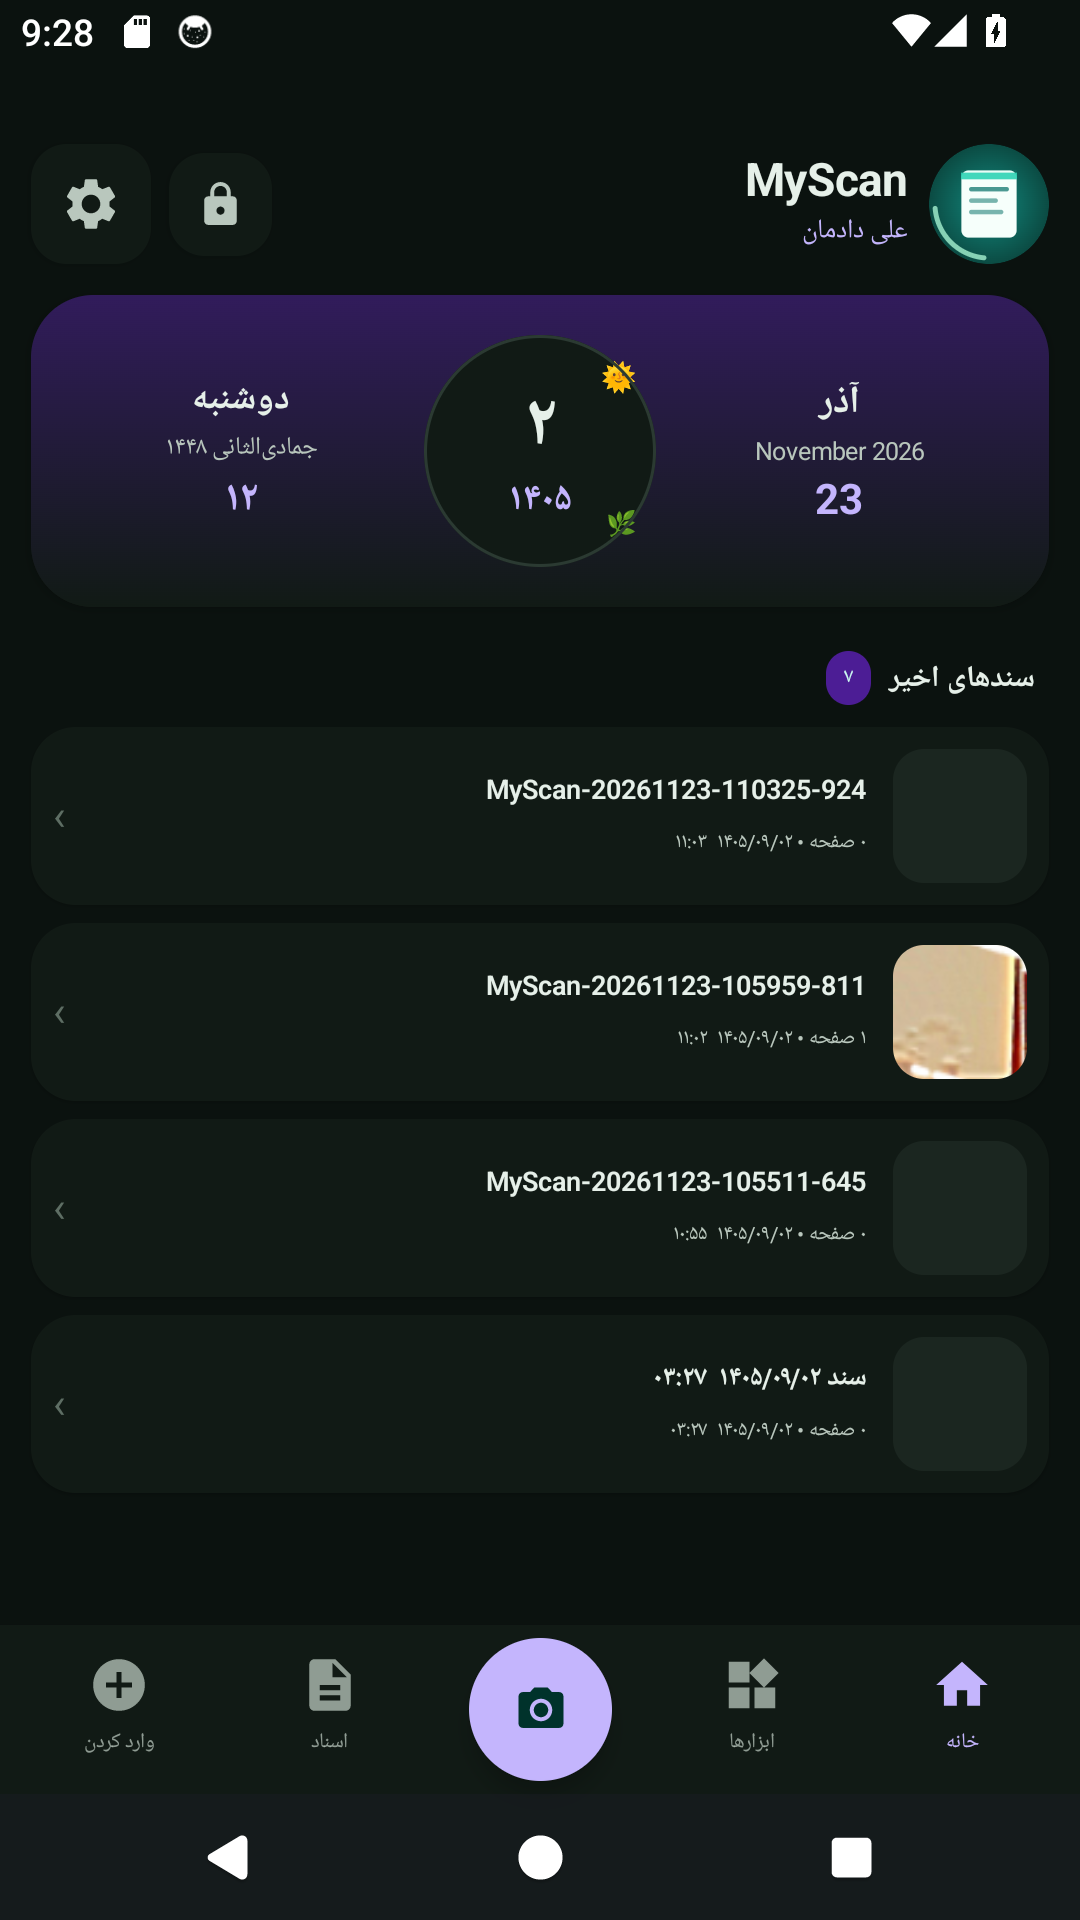
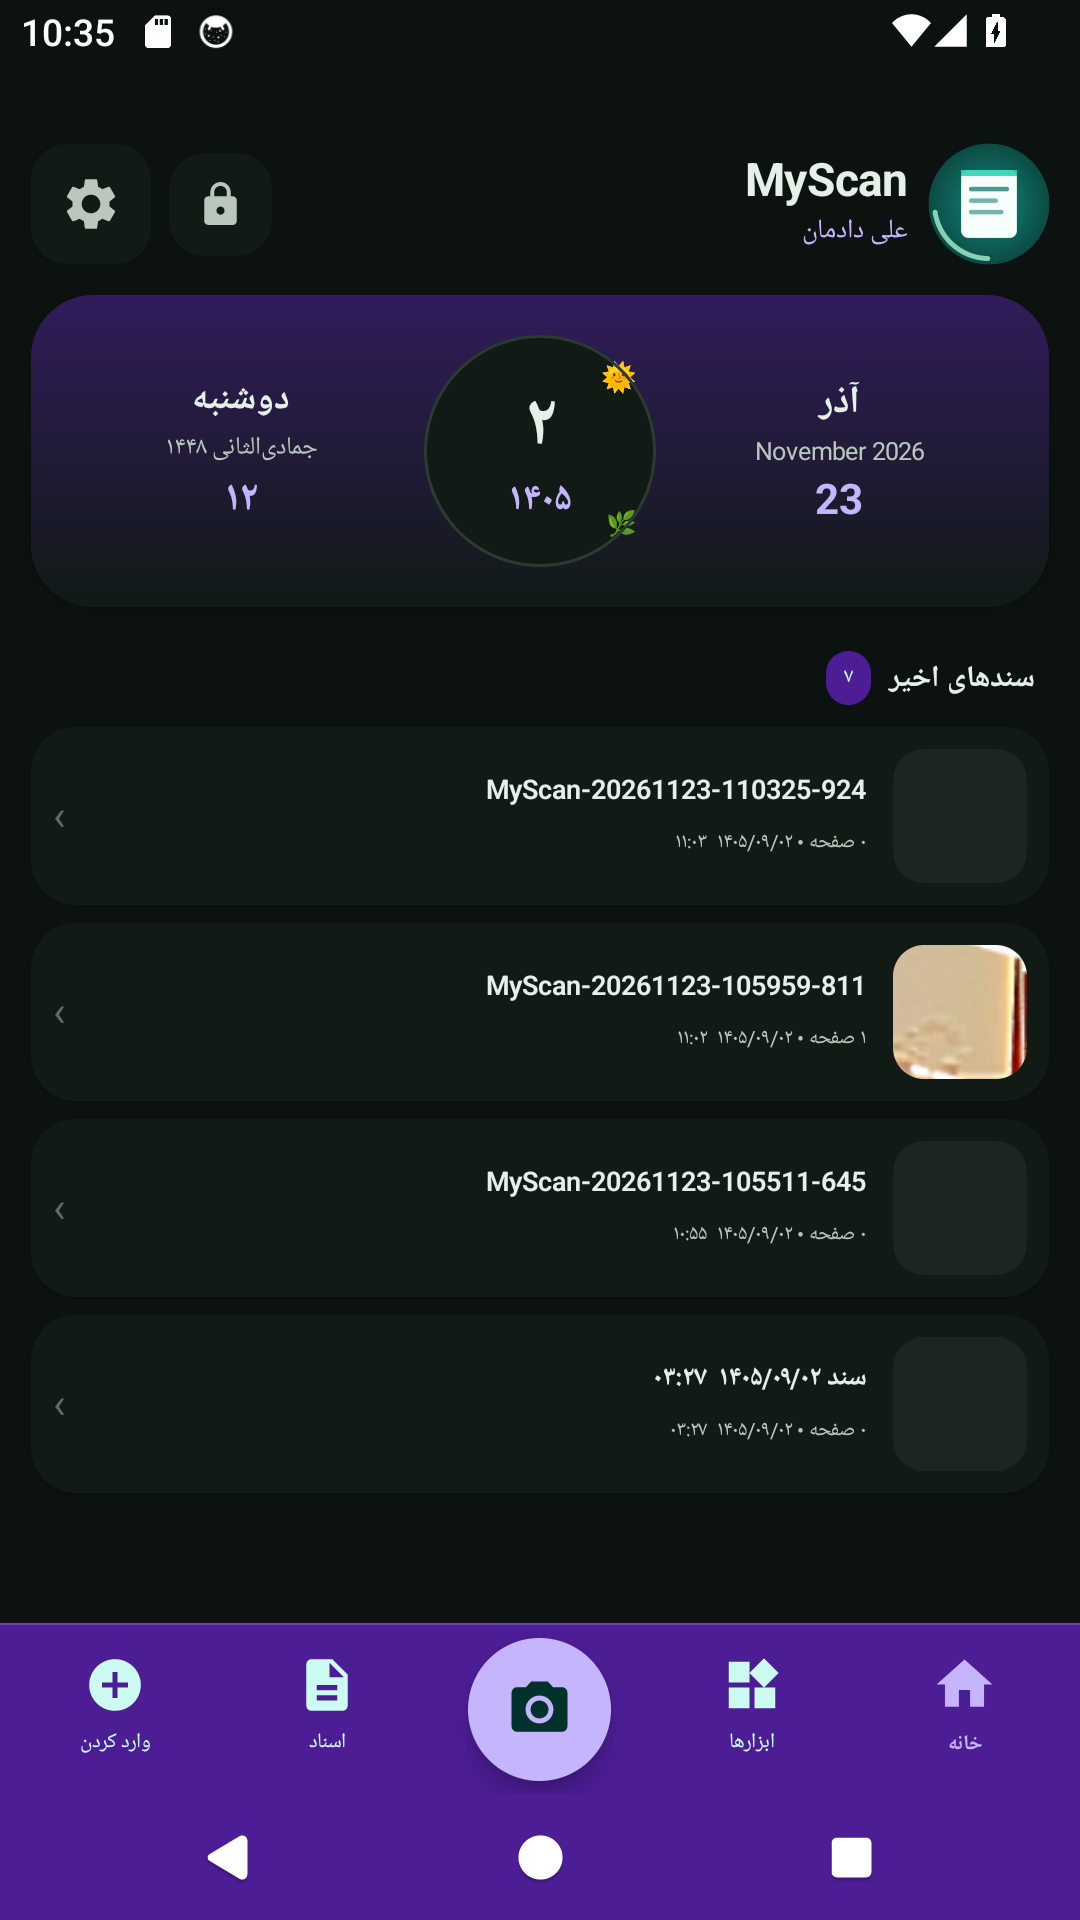
style: themed bottom bar and system navigation bar colors from selected skin for contrast

Changed region(s): [[0.0, 0.8438, 1.0, 1.0], [0.0306, 0.0, 0.2139, 0.0312], [0.8861, 0.0625, 0.9472, 0.0938]]

diff --git a/app/src/main/java/ir/scanfa/app/ui/HomeScreen.kt b/app/src/main/java/ir/scanfa/app/ui/HomeScreen.kt
@@ -346,11 +346,18 @@ private fun HomeBottomBar(
     onDocs: () -> Unit
 ) {
     val scheme = MaterialTheme.colorScheme
-    Surface(color = scheme.surface, shadowElevation = 8.dp) {
-        Row(
-            Modifier.fillMaxWidth().navigationBarsPadding().padding(horizontal = 6.dp, vertical = 6.dp),
-            verticalAlignment = Alignment.CenterVertically
-        ) {
+    Surface(color = scheme.primaryContainer, shadowElevation = 10.dp) {
+        Column {
+            Box(
+                Modifier
+                    .fillMaxWidth()
+                    .height(1.dp)
+                    .background(scheme.primary.copy(alpha = 0.25f))
+            )
+            Row(
+                Modifier.fillMaxWidth().navigationBarsPadding().padding(horizontal = 4.dp, vertical = 6.dp),
+                verticalAlignment = Alignment.CenterVertically
+            ) {
             BottomItem(Icons.Filled.Home, "خانه", true, Modifier.weight(1f), onHome)
             BottomItem(Icons.Filled.Widgets, "ابزارها", false, Modifier.weight(1f), onTools)
             Box(Modifier.weight(1f), contentAlignment = Alignment.Center) {
@@ -361,12 +368,18 @@ private fun HomeBottomBar(
                     shadowElevation = 6.dp
                 ) {
                     Box(contentAlignment = Alignment.Center) {
-                        Icon(Icons.Filled.CameraAlt, contentDescription = "اسکن", tint = scheme.onPrimary)
+                        Icon(
+                            Icons.Filled.CameraAlt,
+                            contentDescription = "اسکن",
+                            tint = scheme.onPrimary,
+                            modifier = Modifier.size(30.dp)
+                        )
                     }
                 }
             }
             BottomItem(Icons.Filled.Description, "اسناد", false, Modifier.weight(1f), onDocs)
             BottomItem(Icons.Filled.AddCircle, "وارد کردن", false, Modifier.weight(1f), onImport)
+            }
         }
     }
 }
@@ -380,6 +393,7 @@ private fun BottomItem(
     onClick: () -> Unit
 ) {
     val scheme = MaterialTheme.colorScheme
+    val tint = if (selected) scheme.primary else scheme.onPrimaryContainer
     Column(
         modifier = modifier.pressClick { onClick() }.padding(vertical = 4.dp),
         horizontalAlignment = Alignment.CenterHorizontally
@@ -387,14 +401,15 @@ private fun BottomItem(
         Icon(
             icon,
             contentDescription = label,
-            tint = if (selected) scheme.primary else scheme.onSurfaceVariant.copy(alpha = 0.75f),
-            modifier = Modifier.size(28.dp)
+            tint = tint,
+            modifier = Modifier.size(if (selected) 30.dp else 28.dp)
         )
         Spacer(Modifier.height(2.dp))
         Text(
             label,
             fontSize = 11.sp,
-            color = if (selected) scheme.primary else scheme.onSurfaceVariant.copy(alpha = 0.75f)
+            fontWeight = if (selected) FontWeight.Bold else FontWeight.Medium,
+            color = tint
         )
     }
 }

diff --git a/app/src/main/java/ir/scanfa/app/MainActivity.kt b/app/src/main/java/ir/scanfa/app/MainActivity.kt
@@ -20,6 +20,7 @@ import ir.scanfa.app.ui.AppNav
 import ir.scanfa.app.ui.LocalDoubleTapEnabled
 import ir.scanfa.app.ui.LocalHapticsEnabled
 import ir.scanfa.app.ui.ScannerTheme
+import ir.scanfa.app.ui.Skins
 import ir.scanfa.app.vm.ScannerViewModel
 
 class MainActivity : ComponentActivity() {
@@ -41,8 +42,12 @@ class MainActivity : ComponentActivity() {
             val view = LocalView.current
             SideEffect {
                 val window = window ?: return@SideEffect
-                window.navigationBarColor = android.graphics.Color.TRANSPARENT
                 window.statusBarColor = android.graphics.Color.TRANSPARENT
+                val skinColor = (Skins.firstOrNull { it.id == skin } ?: Skins.first())
+                window.navigationBarColor = if (dark) skinColor.darkPrimaryContainer.toInt() else skinColor.primaryContainer.toInt()
+                if (android.os.Build.VERSION.SDK_INT >= 29) {
+                    window.isNavigationBarContrastEnforced = false
+                }
                 WindowCompat.getInsetsController(window, view).apply {
                     isAppearanceLightStatusBars = false
                     isAppearanceLightNavigationBars = !dark
